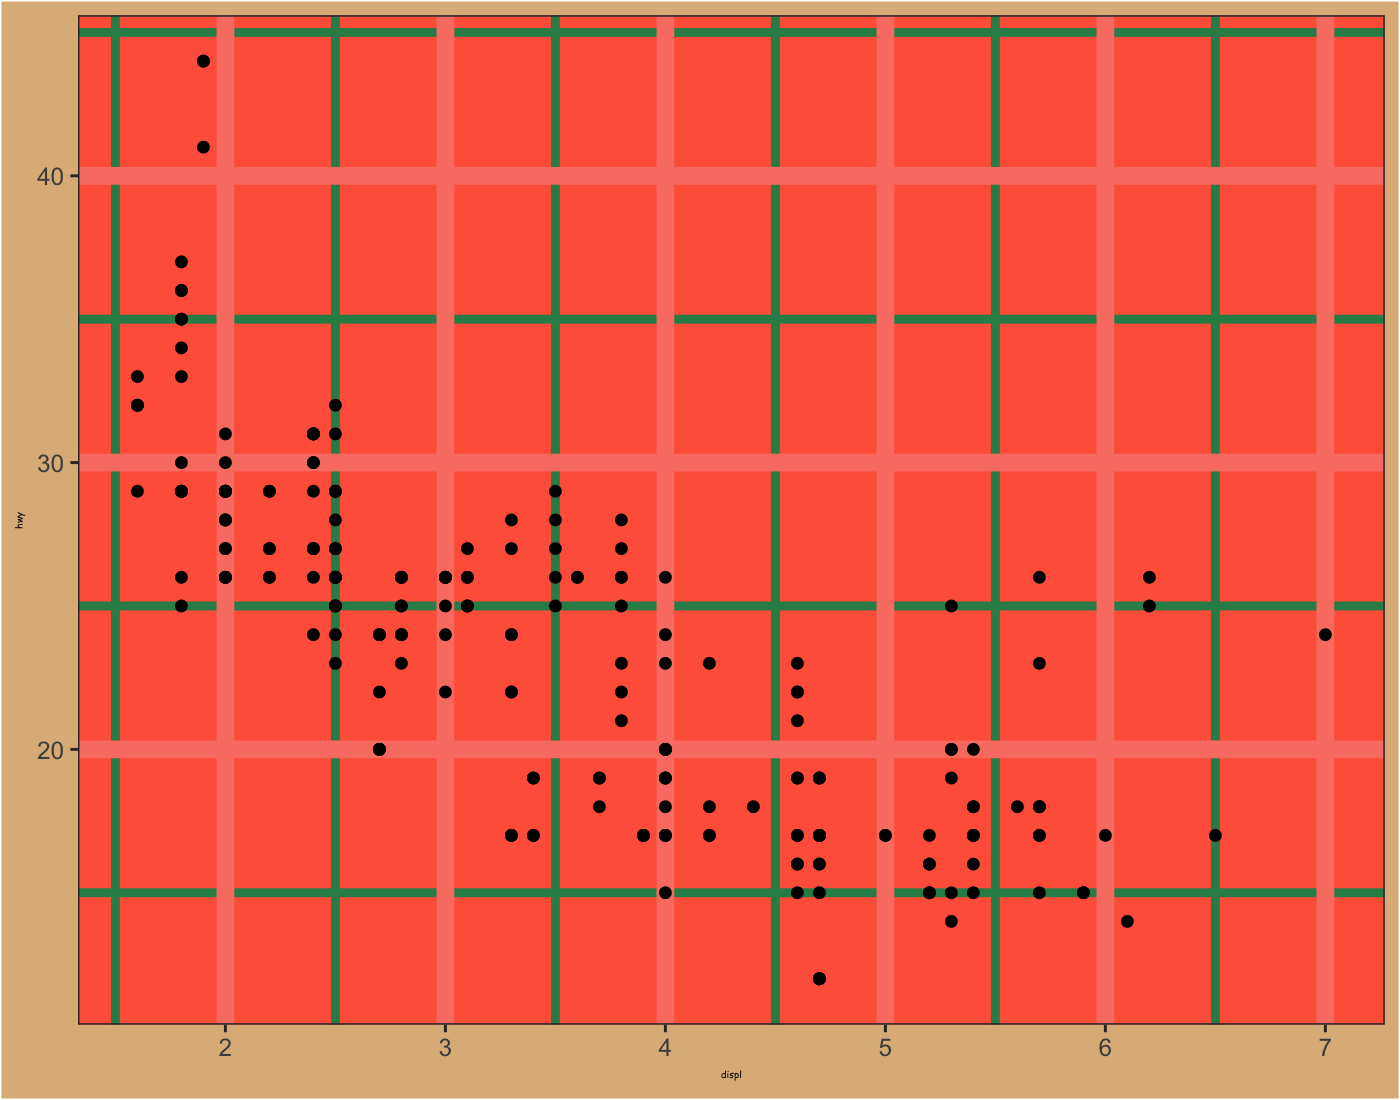
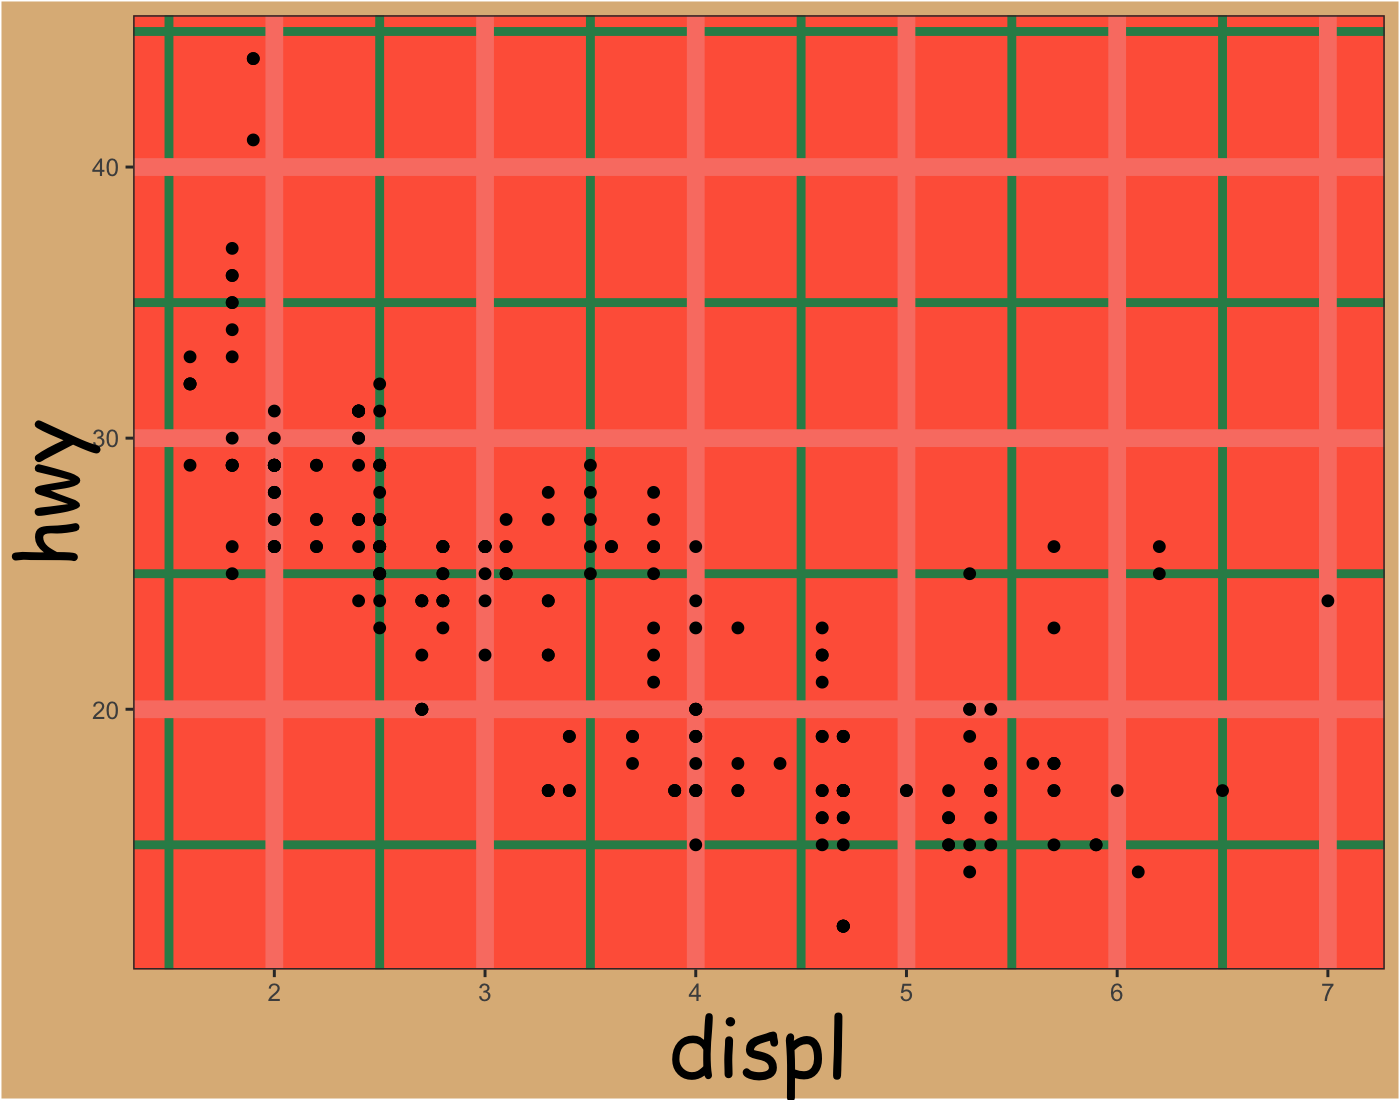
conflict

diff --git a/index.html b/index.html
@@ -131,8 +131,8 @@ $(document).ready(function () {
 <p><br></p>
 <div id="links" class="section level3">
 <h3>Links</h3>
-<div id="data-sets-day-1" class="section level5">
-<h5>Data sets: <a href="https://dwulff.github.io/Intro2R_Unibe/1_Data/BernRBootcamp_Day1.zip">Day 1</a></h5>
+<div id="data-sets-day-1-day-2" class="section level5">
+<h5>Data sets: <a href="https://dwulff.github.io/Intro2R_Unibe/1_Data/BernRBootcamp_Day1.zip">Day 1</a>, <a href="https://dwulff.github.io/Intro2R_Unibe/1_Data/BernRBootcamp_Day2.zip">Day 2</a></h5>
 </div>
 <div id="pdfs" class="section level5">
 <h5>PDFs</h5>

diff --git a/_sessions/PlottingII/PlottingII.html b/_sessions/PlottingII/PlottingII.html
@@ -406,11 +406,12 @@ Change the &lt;high&gt;axes labels&lt;/high&gt; using the ` axis.title.x` and ` 
 myplot + 
   theme(
     axis.title.x = 
-      element_text(family = "Comic Sans MS", 
-                   size = 3.5),
+      element_text(
+                   family = "Comic Sans MS", 
+                   size = 30),
     axis.title.y = 
       element_text(family = "Comic Sans MS", 
-                   size = 3.5)
+                   size = 30)
     )
 ```
 
